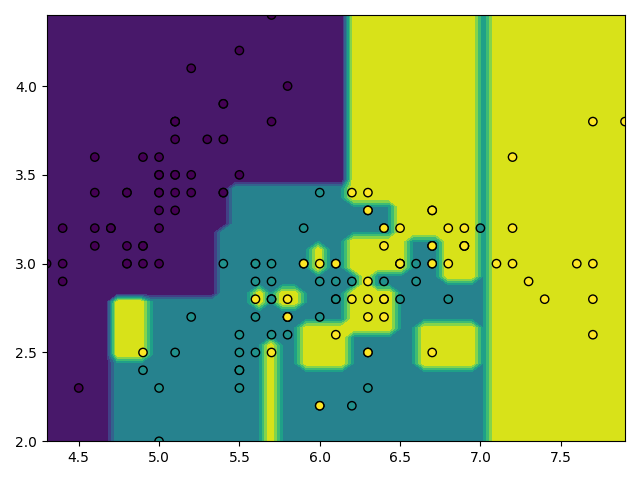
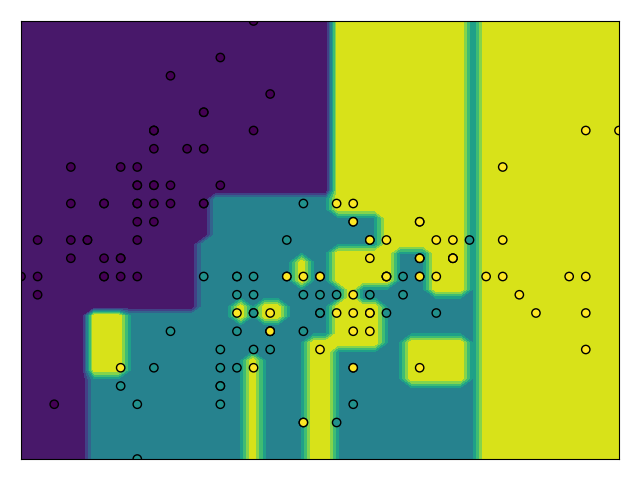
.

diff --git a/decompose/decompositions.py b/decompose/decompositions.py
@@ -82,16 +82,20 @@ class BregmanDecomposition(object):
             grad_term = np.einsum("ijkl,ijkl->ijk", self._generator_gradient(q), p - q)
         return self.bregman_generator(p) - self.bregman_generator(q) - grad_term
 
-    def _bregman_expectation(self, axes1=(), axes2=(), axes3=()):
+    def _bregman_expectation(self, axes1=(), axes2=(), axes3=(), M=None):
+        if M is None:
+            etas = self.etas
+        else:
+            etas = self.etas[:, 0:M, :]
         centroid = self._inverse_generator_gradient(
-            self.etas.mean(axis=axes1, keepdims=True)
+            etas.mean(axis=axes1, keepdims=True)
         )
         individuals = self._inverse_generator_gradient(
-            self.etas.mean(axis=axes2, keepdims=True)
+            etas.mean(axis=axes2, keepdims=True)
         )
         return self._bregman_divergence(centroid, individuals).mean(axis=axes3).squeeze()
 
-    def _error_function(self, axes1=(), axes2=()):
+    def _error_function(self, axes1=(), axes2=(), M=None):
         # axes1 combines etas
         # axes2 combines means of errors
         # axes1=1, axes2=0 for \\mathbb{E}_D[ B (y, \\bar{q})]
@@ -106,8 +110,13 @@ class BregmanDecomposition(object):
         # This function generalizes this, allowing it to be used to compute each
         # of the expected error and bias terms.
 
+        if M is None:
+            etas = self.etas
+        else:
+            etas = self.etas[:, 0:M, :]
+
         x = self._inverse_generator_gradient(
-            self.etas.mean(axis=axes1, keepdims=True))
+            etas.mean(axis=axes1, keepdims=True))
 
         error = self._compute_error(x, self.labels)
         return np.mean(error, axis=axes2).squeeze()
@@ -135,6 +144,11 @@ class BregmanDecomposition(object):
         """
         return self._error_function(1, 0)
 
+    def get_expected_ensemble_loss(self, M):
+        return self._error_function(1,
+                                    (0, 2)  # aggregate over trials and points
+                                    , M)
+
     @cached_property
     def expected_member_loss(self):
         """
@@ -148,6 +162,9 @@ class BregmanDecomposition(object):
 
         """
         return self._error_function(axes2=(0, 1))
+
+    def get_expected_member_loss(self, M):
+        return self._error_function((), (0, 1, 2), M)
 
     @cached_property
     def ensemble_bias(self):
@@ -163,6 +180,9 @@ class BregmanDecomposition(object):
 
         """
         return self._error_function((0, 1))
+
+    def get_ensemble_bias(self, M):
+        return self._error_function((1, 0), (0, 2), M)
 
     @cached_property
     def ensemble_variance(self):
@@ -193,6 +213,9 @@ class BregmanDecomposition(object):
         """
         return self._error_function(0, 1)
 
+    def get_average_bias(self, M):
+        return self._error_function(0, (0, 1, 2), M)
+
     @cached_property
     def average_variance(self):
         """
@@ -206,6 +229,9 @@ class BregmanDecomposition(object):
 
         """
         return self._bregman_expectation(0, (), (0, 1))
+
+    def get_average_variance(self, M):
+        return self._bregman_expectation(0, (), (0, 1,2), M)
 
     @cached_property
     def disparity(self):
@@ -233,6 +259,9 @@ class BregmanDecomposition(object):
             A (N,)-shape array with one value per test data point
         """
         return self._bregman_expectation(1, (), (0, 1))
+
+    def get_diversity(self, M):
+        return self._bregman_expectation(1, (), (0, 1, 2), M)
 
     def _non_centroid_error_function(self, combination_func, axes1=(), axes2=()):
 
@@ -483,7 +512,7 @@ class EffectDecomposition(object):
 
     def get_expected_ensemble_loss(self, M):
         return self.error_function(1,
-                                   (0,2) # aggregate over trials and points
+                                   (0, 2)  # aggregate over trials and points
                                    , M)
 
     @cached_property
@@ -500,7 +529,6 @@ class EffectDecomposition(object):
 
     def get_expected_member_loss(self, M):
         return self.error_function((), (0, 1, 2), M)
-
 
     def get_expected_member_loss_per_example(self, M):
         return self.error_function((), (0), M)
@@ -519,7 +547,7 @@ class EffectDecomposition(object):
         return self.error_function((1, 0), ())
 
     def get_ensemble_bias(self, M):
-        return self.error_function((1, 0), (0,2), M)
+        return self.error_function((1, 0), (0, 2), M)
 
     @cached_property
     def average_bias(self):
@@ -537,7 +565,7 @@ class EffectDecomposition(object):
         return self.error_function(0, 1)
 
     def get_average_bias(self, M):
-        return self.error_function(0, (0,1,2), M)
+        return self.error_function(0, (0, 1, 2), M)
 
     @cached_property
     def ensemble_variance_effect(self):
@@ -552,10 +580,10 @@ class EffectDecomposition(object):
             Array of size (n_test_points)
 
         """
-        return self._central_model_difference((1, 0), (0,1,2), 0)
+        return self._central_model_difference((1, 0), (0, 1, 2), 0)
 
     def get_ensemble_variance_effect(self, M):
-        return self._central_model_difference((1, 0), (0,1,2), (0,1,2), M)
+        return self._central_model_difference((1, 0), (0, 1, 2), (0, 1, 2), M)
 
     @cached_property
     def average_variance_effect(self):

diff --git a/decompose/experiments.py b/decompose/experiments.py
@@ -336,17 +336,17 @@ class BVDExperiment(object):
 
 
                 # np_output_train = np.zeros([n_trials, n_estimators, n_train], dtype=int)
-                train_out = np.zeros([n_estimators, my_train_data.shape[0]])
+                # train_out = np.zeros([n_estimators, my_train_data.shape[0]])
                 if hasattr(cur_model, "estimators_"):
                     for est_idx, member in enumerate(cur_model.estimators_):
                         np_output[t_idx, est_idx, ...] = self._get_pred(member, test_data)
-                        train_preds = self._get_pred(member, my_train_data)
-                        train_out[est_idx, ...] = train_preds
+                        # train_preds = self._get_pred(member, my_train_data)
+                        # train_out[est_idx, ...] = train_preds
                         if self.compute_zero_one_decomp:
                             np_class_pred[t_idx, est_idx, ...] = cur_model.estimators_[est_idx].predict(test_data)
                             # np_class_pred_train[t_idx, est_idx, ...] = cur_model.estimators_[est_idx].predict(my_train_data)
-                    np_output_train.append(train_out)
-                    _train_labels.append(my_train_labels)
+                    # np_output_train.append(train_out)
+                    # _train_labels.append(my_train_labels)
                 else:
                     assert n_estimators == 1, f"n_estimators should be 1 for single model, not {n_estimators}"
                     np_output[t_idx, 0, ...] = self._get_pred(cur_model, test_data)
@@ -1063,7 +1063,7 @@ class ResultsObject(AbstractResultsObject):
         self.ensemble_risk[param_idx, split_idx] = np.average(decomp.expected_ensemble_loss,
                                                               weights=sample_weight)
 
-        self.staged_errors = decomp.staged_errors_regr()
+        # self.staged_errors = decomp.staged_errors_regr()
 
         # self.staged_errors_train = decomp.staged_errors_train(np.array(np_output_train), np.array(train_labels))
 
@@ -1459,7 +1459,7 @@ class ZeroOneResultsObject(AbstractResultsObject):
 
         self.staged_errors = decomp.staged_errors()
 
-        self.staged_errors_train = decomp.staged_errors_train(np.array(np_output_train), np.array(train_labels))
+        # self.staged_errors_train = decomp.staged_errors_train(np.array(np_output_train), np.array(train_labels))
 
         # TODO make other computations optional aswell
 

diff --git a/dvc-experiments/get_staged_decomp_values.py b/dvc-experiments/get_staged_decomp_values.py
@@ -6,7 +6,6 @@ import numpy as np
 
 from decompose import dvc_utils
 from decompose.dvc_utils import cwd_path
-from decompose.utils import all_getters
 
 
 def staged(getter):
@@ -25,6 +24,10 @@ def main():
     model_id = args.model
     dataset_id = args.dataset
 
+    import dvc.api
+    params = dvc.api.params_show("params-getters.yaml")
+    getters = set(params['plot_bvd_getters'] + params['plot_ens_getters'])
+
     decomp_path = cwd_path("decomps", dataset_id, model_id + ".pkl")
 
     with open(decomp_path, "rb") as f:
@@ -33,9 +36,9 @@ def main():
         except EOFError as e:
             # dont want other stages to fail so log & continue
             logging.error(f"Error loading {decomp_path}: {e}")
-            path = cwd_path("staged-decomp-values", dataset_id, model_id, "foo") # still create out path
+            cwd_path("staged-decomp-values", dataset_id, model_id, "foo")  # still create out path
             return
-    for getter_id in all_getters().keys():
+    for getter_id in getters:
         getter = getattr(decomp, getter_id)
         path = cwd_path("staged-decomp-values", dataset_id, model_id, f"{getter_id}.npy")
         np.save(path, staged(getter))

diff --git a/dvc-experiments/plot_compare_models.py b/dvc-experiments/plot_compare_models.py
@@ -3,7 +3,7 @@ from matplotlib import pyplot as plt
 
 from decompose import dvc_utils
 from decompose.dvc_utils import cwd_path, get_model_color
-from decompose.utils import children, load_saved_decomp, getters_and_labels
+from decompose.utils import children, load_saved_decomp, getters_and_labels, all_getters
 
 
 def main():
@@ -15,9 +15,14 @@ def main():
     args = dvc_utils.parse_args()
     dataset_id = args.dataset
 
+    import dvc.api
+    params = dvc.api.params_show("params-getters.yaml")
+    getters = set(params['plot_bvd_getters'] + params['plot_ens_getters'])
+    getters_and_labels = [(g, all_getters()[g]['label']) for g in getters]
+
     dataset_path = cwd_path("staged-decomp-values", dataset_id)
 
-    for getter_id, getter_label in getters_and_labels():
+    for getter_id, getter_label in getters_and_labels:
 
         mins = []
 

diff --git a/illustrations/decision-trees/regression.py b/illustrations/decision-trees/regression.py
@@ -1,3 +1,4 @@
+import matplotx
 import numpy as np
 import matplotlib.pyplot as plt
 from sklearn.tree import DecisionTreeRegressor
@@ -41,6 +42,11 @@ display.ax_.scatter(
     iris.data[:, 0], iris.data[:, 1], c=iris.target, edgecolor="black"
 )
 
+plt.xticks([])
+plt.yticks([])
+
+plt.style.use(matplotx.styles.dufte)
+
 plt.tight_layout()
 plt.show()
 
@@ -49,7 +55,8 @@ plot_id = "decision-tree-boundaries"
 display.figure_.savefig(cwd_path(f"{plot_id}.png"))
 
 caption = """
-    Decision tree boundaries (TODO: attribute or adjust code, figsize)
+    Decision boundaries of a tree in two (arbitrary) features constructed on the \\textit{iris} dataset.
+     Visualisation based on \\cite{_SklearnInspectionDecisionBoundaryDisplay_}.
     """
 put_caption(caption,
             cwd_path(f"{plot_id}.tex"))

diff --git a/decompose/classifiers.py b/decompose/classifiers.py
@@ -52,7 +52,7 @@ class MLP(BaseEstimator, ClassifierMixin):
 
         self.net = NeuralNetClassifier(
             module=module,
-            max_epochs=10,
+            max_epochs=100,
             lr=0.1,
             criterion=nn.CrossEntropyLoss(),
             verbose=False
@@ -67,7 +67,14 @@ class MLP(BaseEstimator, ClassifierMixin):
         return self.net.predict_proba(xs)
 
 
+class NCLMLP(MLP):
+    def __init__(self):
+        super(NCLMLP, self).__init__()
 
+    # for NCL, need prediction of ensemble
+    # so have, to train all epochs of ensemble in a coordinated manner
+    # -> will have write manual training loop after all
+    # but probably not so bad
 
 def _drf_sample_weights(tree_preds, truth):
     incorrect = tree_preds != truth  # binary vector with 1 where incorrect

diff --git a/illustrations/ambiguity/trees.py b/illustrations/ambiguity/trees.py
@@ -63,9 +63,8 @@ caption = """The spread of individual tree predictions in a random forest ensemb
     Glyphs correspond to test errors of individual trees. 
     The dashed line is the average test error of individual trees 
     $\\frac{1}{M} \\sum_1^M L(y, q_i)$.
-    The solid line is the test error of the ensemble
-    $L(y, \\bar{q})$. 
-    The difference between these values is the ensemble improvement or ambiguity-effect.
+    The solid line is the test error of the ensemblL(y, \\bar{q})$. 
+    The difference between these values is the \\textit{ensemble improvement} or \\textit{ambiguity-effect}. (TODO resolve double terms)
     """
 put_caption(caption,
          f"{plot_id}.tex")

diff --git a/decompose/utils.py b/decompose/utils.py
@@ -76,12 +76,15 @@ def all_getters():
 
         "get_ensemble_bias": {"label": "bias($\\bar{q}$)"},
         "get_ensemble_variance_effect": {"label": "var($\\bar{q}$)"},
+        "get_ensemble_variance": {"label": "var($\\bar{q}$)"},
 
         # "get_expected_member_loss_per_example": {"label": "\\frac{1}{M} \\sum_{i=1}^M \\mathbb{E} [L(y, q_i)]"},
 
         "get_average_bias": {"label": "$\\overline{bias}$"},
         "get_average_variance_effect": {"label": "$\\overline{var}$"},
+        "get_average_variance": {"label": "$\\overline{var}$"},
         "get_diversity_effect": {"label": "div"},
+        "get_diversity": {"label": "div"},
     }
 
 def getters_and_labels():

diff --git a/dvc-experiments/plot_bvd.py b/dvc-experiments/plot_bvd.py
@@ -7,13 +7,13 @@ def main():
     Grid of plots with one row per dataset and one column per model, each plotting individual decomp terms.
     """
 
-    plot_decomp_grid([
-        "get_expected_ensemble_loss",
-        "get_average_bias",
-        "get_average_variance_effect",
-        "get_diversity_effect"
-    ],
-    cwd_path("plots", "bvd-decomps", "bvd.png")
+    import dvc.api
+    params = dvc.api.params_show("params-getters.yaml")
+    getters = params['plot_bvd_getters']
+
+    plot_decomp_grid(
+        getters,
+        cwd_path("plots", "bvd-decomps", "bvd.png")
     )
 
 

diff --git a/illustrations/ambiguity/rf-ambiguity.tex b/illustrations/ambiguity/rf-ambiguity.tex
@@ -4,5 +4,5 @@
     $\frac{1}{M} \sum_1^M L(y, q_i)$.
     The solid line is the test error of the ensemble
     $L(y, \bar{q})$. 
-    The difference between these values is the ensemble improvement or ambiguity-effect.
+    The difference between these values is the \textit{ensemble improvement} or \textit{ambiguity-effect}. (TODO resolve double terms)
     }

diff --git a/illustrations/decision-trees/decision-tree-boundaries.tex b/illustrations/decision-trees/decision-tree-boundaries.tex
@@ -1,3 +1,4 @@
 \caption{
-    Decision tree boundaries (TODO: attribute or adjust code)
+    Decision boundaries of a tree in two (arbitrary) features constructed on the \textit{iris} dataset.
+     Visualisation based on \cite{_SklearnInspectionDecisionBoundaryDisplay_}.
     }
